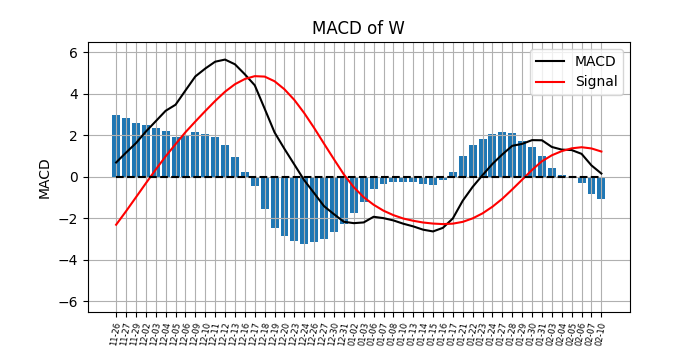
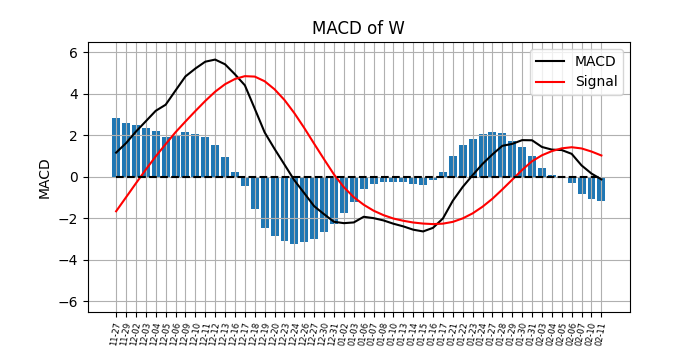
commit for 2025-02-11

diff --git a/_posts/2025-02-11-VRTX.md b/_posts/2025-02-11-VRTX.md
@@ -1,9 +1,9 @@
 ---
 layout: post
-title: "W"
-company: Wayfair Inc.
-date: 2025-02-10 -0500
-categories: internet retail
+title: "VRTX"
+company: Vertex Pharma Inc.
+date: 2025-02-11 -0500
+categories: biotech
 ---
 
 ### Most up to date figures for {{page.company}} ({{ page.title }}).
@@ -14,4 +14,7 @@ categories: internet retail
 
 ### Transactions
 
+Buy/short:
+
 ### Thoughts
+(1/21/25) - **Miss**. Missed buy opportunity on 1/16 after MA double cross. Look for short opportunity soon.

diff --git a/_posts/2025-02-11-W.md b/_posts/2025-02-11-W.md
@@ -1,9 +1,9 @@
 ---
 layout: post
-title: "VRTX"
-company: Vertex Pharma Inc.
-date: 2025-02-10 -0500
-categories: biotech
+title: "W"
+company: Wayfair Inc.
+date: 2025-02-11 -0500
+categories: internet retail
 ---
 
 ### Most up to date figures for {{page.company}} ({{ page.title }}).
@@ -14,7 +14,4 @@ categories: biotech
 
 ### Transactions
 
-Buy/short:
-
 ### Thoughts
-(1/21/25) - **Miss**. Missed buy opportunity on 1/16 after MA double cross. Look for short opportunity soon.

diff --git a/_posts/2025-02-11-AMD.md b/_posts/2025-02-11-AMD.md
@@ -2,7 +2,7 @@
 layout: post
 title: "AMD"
 company: Advanced Micro Devices Inc.
-date: 2025-02-10 -0500
+date: 2025-02-11 -0500
 categories: tech
 ---
 

diff --git a/_posts/2025-02-11-LYFT.md b/_posts/2025-02-11-LYFT.md
@@ -2,7 +2,7 @@
 layout: post
 title: "LYFT"
 company: Lyft Inc.
-date: 2025-02-10 -0500
+date: 2025-02-11 -0500
 categories: consumer
 ---
 
